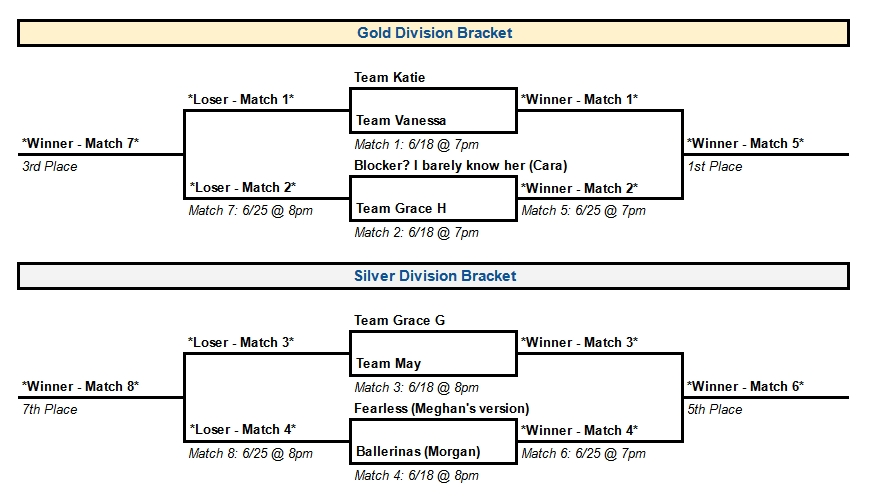
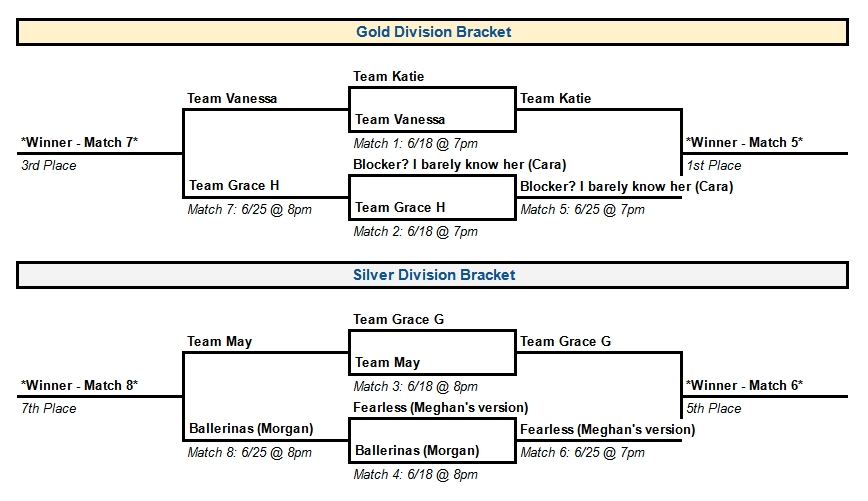
playoff scores

diff --git a/womens/dcwvb_spr24.html b/womens/dcwvb_spr24.html
@@ -900,22 +900,22 @@
         </tr>
         <tr>
           <td style="width:160px;text-align:left;border-top:solid;border-left:solid;border-right:1px solid black;background-color:GhostWhite;padding-left:3px;">Team Katie</td>
-          <td style="width:30px;text-align:center;border-top:solid;border-left:1px solid black;border-right:solid;background-color:GhostWhite;"></td>
+          <td style="width:30px;text-align:center;border-top:solid;border-left:1px solid black;border-right:solid;background-color:GhostWhite;">1</td>
         </tr>
         <tr>
           <td style="width:160px;text-align:left;border-bottom:1px solid black;border-left:solid;border-right:1px solid black;background-color:GhostWhite;padding-left:3px;">Team Vanessa</td>
-          <td style="width:30px;text-align:center;border-bottom:1px solid black;border-left:1px solid black;border-right:solid;background-color:GhostWhite;"></td>
+          <td style="width:30px;text-align:center;border-bottom:1px solid black;border-left:1px solid black;border-right:solid;background-color:GhostWhite;">0</td>
         </tr>
         <tr>
           <th colspan="2" style="text-align:center;border-top:solid;border-bottom:solid;border-left:solid;border-right:solid;background-color:GhostWhite;">Court 2 - Match 2</th>
         </tr>
         <tr>
           <td style="width:160px;text-align:left;border-top:solid;border-left:1px solid black;border-right:1px solid black;border-left:solid;background-color:GhostWhite;padding-left:3px;">Blocker? I barely knew her</td>
-          <td style="width:30px;text-align:center;border-top:solid;border-left:1px solid black;border-right:solid;background-color:GhostWhite;"></td>
+          <td style="width:30px;text-align:center;border-top:solid;border-left:1px solid black;border-right:solid;background-color:GhostWhite;">1</td>
         </tr>
         <tr>
           <td style="width:160px;text-align:left;border-bottom:1px solid black;border-left:1px solid black;border-right:1px solid black;border-left:solid;background-color:GhostWhite;padding-left:3px;">Team Grace H</td>
-          <td style="width:30px;text-align:center;border-bottom:1px solid black;border-left:1px solid black;border-right:solid;background-color:GhostWhite;"></td>
+          <td style="width:30px;text-align:center;border-bottom:1px solid black;border-left:1px solid black;border-right:solid;background-color:GhostWhite;">0</td>
         </tr>
         <tr>
           <th rowspan="6" style="text-align:center;border-top:solid;border-bottom:solid;border-left:solid;border-right:solid;background-color:LightGray;padding-left:5px;padding-right:5px;">8 PM</th>
@@ -923,22 +923,22 @@
         </tr>
         <tr>
           <td style="width:160px;text-align:left;border-top:solid;border-left:solid;border-right:1px solid black;background-color:LightGray;padding-left:3px;">Team Grace G</td>
-          <td style="width:30px;text-align:center;border-top:solid;border-left:1px solid black;border-right:solid;background-color:LightGray;"></td>
+          <td style="width:30px;text-align:center;border-top:solid;border-left:1px solid black;border-right:solid;background-color:LightGray;">1</td>
         </tr>
         <tr>
           <td style="width:160px;text-align:left;border-bottom:1px solid black;border-left:solid;border-right:1px solid black;background-color:LightGray;padding-left:3px;">Team May</td>
-          <td style="width:30px;text-align:center;border-bottom:1px solid black;border-left:1px solid black;border-right:solid;background-color:LightGray;"></td>
+          <td style="width:30px;text-align:center;border-bottom:1px solid black;border-left:1px solid black;border-right:solid;background-color:LightGray;">0</td>
         </tr>
         <tr>
           <th colspan="2" style="text-align:center;border-top:solid;border-bottom:solid;border-left:solid;border-right:solid;background-color:LightGray;">Court 2 - Match 4</th>
         </tr>
         <tr>
           <td style="width:160px;text-align:left;border-top:solid;border-left:1px solid black;border-right:1px solid black;border-left:solid;background-color:LightGray;padding-left:3px;">Fearless (Meghan's version)</td>
-          <td style="width:30px;text-align:center;border-top:solid;border-left:1px solid black;border-right:solid;background-color:LightGray;"></td>
+          <td style="width:30px;text-align:center;border-top:solid;border-left:1px solid black;border-right:solid;background-color:LightGray;">1</td>
         </tr>
         <tr>
           <td style="width:160px;text-align:left;border-bottom:solid;border-left:1px solid black;border-right:1px solid black;border-left:solid;background-color:LightGray;padding-left:3px;">Ballerinas</td>
-          <td style="width:30px;text-align:center;border-bottom:solid;border-left:1px solid black;border-right:solid;background-color:LightGray;"></td>
+          <td style="width:30px;text-align:center;border-bottom:solid;border-left:1px solid black;border-right:solid;background-color:LightGray;">0</td>
         </tr>
       </table>
     </div>
@@ -953,22 +953,22 @@
           <th colspan="2" style="text-align:center;border-top:solid;border-bottom:solid;border-left:solid;border-right:solid;background-color:GhostWhite;">Court 1 - 1st Place</th>
         </tr>
         <tr>
-          <td style="width:160px;text-align:left;border-top:solid;border-left:solid;border-right:1px solid black;background-color:GhostWhite;padding-left:3px;">Winner - Match 1</td>
+          <td style="width:160px;text-align:left;border-top:solid;border-left:solid;border-right:1px solid black;background-color:GhostWhite;padding-left:3px;">Team Katie</td>
           <td style="width:30px;text-align:center;border-top:solid;border-left:1px solid black;border-right:solid;background-color:GhostWhite;"></td>
         </tr>
         <tr>
-          <td style="width:160px;text-align:left;border-bottom:1px solid black;border-left:solid;border-right:1px solid black;background-color:GhostWhite;padding-left:3px;">Winner - Match 2</td>
+          <td style="width:160px;text-align:left;border-bottom:1px solid black;border-left:solid;border-right:1px solid black;background-color:GhostWhite;padding-left:3px;">Blocker? I barely knew her</td>
           <td style="width:30px;text-align:center;border-bottom:1px solid black;border-left:1px solid black;border-right:solid;background-color:GhostWhite;"></td>
         </tr>
         <tr>
           <th colspan="2" style="text-align:center;border-top:solid;border-bottom:solid;border-left:solid;border-right:solid;background-color:GhostWhite;">Court 2 - 5th Place</th>
         </tr>
         <tr>
-          <td style="width:160px;text-align:left;border-top:solid;border-left:1px solid black;border-right:1px solid black;border-left:solid;background-color:GhostWhite;padding-left:3px;">Winner - Match 3</td>
+          <td style="width:160px;text-align:left;border-top:solid;border-left:1px solid black;border-right:1px solid black;border-left:solid;background-color:GhostWhite;padding-left:3px;">Team Grace G</td>
           <td style="width:30px;text-align:center;border-top:solid;border-left:1px solid black;border-right:solid;background-color:GhostWhite;"></td>
         </tr>
         <tr>
-          <td style="width:160px;text-align:left;border-bottom:1px solid black;border-left:1px solid black;border-right:1px solid black;border-left:solid;background-color:GhostWhite;padding-left:3px;">Winner - Match 4</td>
+          <td style="width:160px;text-align:left;border-bottom:1px solid black;border-left:1px solid black;border-right:1px solid black;border-left:solid;background-color:GhostWhite;padding-left:3px;">Fearless (Meghan's version)</td>
           <td style="width:30px;text-align:center;border-bottom:1px solid black;border-left:1px solid black;border-right:solid;background-color:GhostWhite;"></td>
         </tr>
         <tr>
@@ -976,22 +976,22 @@
           <th colspan="2" style="text-align:center;border-top:solid;border-bottom:solid;border-left:solid;border-right:solid;background-color:LightGray;">Court 1 - 3rd Place</th>
         </tr>
         <tr>
-          <td style="width:160px;text-align:left;border-top:solid;border-left:solid;border-right:1px solid black;background-color:LightGray;padding-left:3px;">Loser - Match 1</td>
+          <td style="width:160px;text-align:left;border-top:solid;border-left:solid;border-right:1px solid black;background-color:LightGray;padding-left:3px;">Team Vanessa</td>
           <td style="width:30px;text-align:center;border-top:solid;border-left:1px solid black;border-right:solid;background-color:LightGray;"></td>
         </tr>
         <tr>
-          <td style="width:160px;text-align:left;border-bottom:1px solid black;border-left:solid;border-right:1px solid black;background-color:LightGray;padding-left:3px;">Loser - Match 2</td>
+          <td style="width:160px;text-align:left;border-bottom:1px solid black;border-left:solid;border-right:1px solid black;background-color:LightGray;padding-left:3px;">Team Grace H</td>
           <td style="width:30px;text-align:center;border-bottom:1px solid black;border-left:1px solid black;border-right:solid;background-color:LightGray;"></td>
         </tr>
         <tr>
           <th colspan="2" style="text-align:center;border-top:solid;border-bottom:solid;border-left:solid;border-right:solid;background-color:LightGray;">Court 2 - 7th Place</th>
         </tr>
         <tr>
-          <td style="width:160px;text-align:left;border-top:solid;border-left:1px solid black;border-right:1px solid black;border-left:solid;background-color:LightGray;padding-left:3px;">Loser - Match 3</td>
+          <td style="width:160px;text-align:left;border-top:solid;border-left:1px solid black;border-right:1px solid black;border-left:solid;background-color:LightGray;padding-left:3px;">Team May</td>
           <td style="width:30px;text-align:center;border-top:solid;border-left:1px solid black;border-right:solid;background-color:LightGray;"></td>
         </tr>
         <tr>
-          <td style="width:160px;text-align:left;border-bottom:solid;border-left:1px solid black;border-right:1px solid black;border-left:solid;background-color:LightGray;padding-left:3px;">Loser - Match 4</td>
+          <td style="width:160px;text-align:left;border-bottom:solid;border-left:1px solid black;border-right:1px solid black;border-left:solid;background-color:LightGray;padding-left:3px;">Ballerinas</td>
           <td style="width:30px;text-align:center;border-bottom:solid;border-left:1px solid black;border-right:solid;background-color:LightGray;"></td>
         </tr>
       </table>
@@ -999,7 +999,7 @@
 
     <div id="BR" style="display:none;margin-left:10px;margin-top:10px;margin-right:10px;margin-bottom:10px;">
       <div>
-        <img title="Bracket" style="height:100%;width:min(870px,100%);" src="../images/dcwvb/dcwvb_spr24_bracket.png">
+        <img title="Bracket" style="height:100%;width:min(868px,100%);" src="../images/dcwvb/dcwvb_spr24_bracket.png">
       </div>
     </div>
 

diff --git a/coed/dvb_sum24.html b/coed/dvb_sum24.html
@@ -283,7 +283,7 @@
       </div>
     </div>
 
-    <div id="Rank" style="display:none;width:100%;height:700px;padding-top:20px;z-index:-1;" class="tabcontent">
+    <div id="Rank" style="display:none;width:100%;height:700px;padding-top:10px;z-index:-1;" class="tabcontent">
       <script>
         anychart.onDocumentReady(function () {
           // add rank
@@ -406,16 +406,16 @@
       </script>
     </div>
 
-    <div id="Points" class="tabcontent" style="display:none;width:100%;height:700px;padding-top:20px;z-index:-1;" class="tabcontent">
+    <div id="Points" class="tabcontent" style="display:none;width:100%;height:700px;padding-top:10px;z-index:-1;" class="tabcontent">
       <script>
         anychart.onDocumentReady(function () {
           // add points
           var points = [
-            ["M0",0,0,0,0,0,0,0,0,0,0,0,0],
-            ["M1",1.5,1.5,0,1.5,0,1.5,1,2.5,1,2.5,1,1],
-            ["M2",4,3,1.5,3,0,4,2,3.5,2,4,1,2],
-            ["M3",4.5,5.5,2,4,1.5,6,2,3.5,3,6,2.5,4.5],
-            ["M4",6,6.5,3.5,5,3,7,3.5,4.5,3.5,7.5,3.5,6]
+            ["M0",0,0,0,0,0,0,0,0,0,0,0,0,0,0],
+            ["M1",1.5,1.5,0,1.5,0,1.5,1,2.5,1,2.5,1,1,0.875,1.5],
+            ["M2",4,3,1.5,3,0,4,2,3.5,2,4,1,2,1.75,3],
+            ["M3",4.5,5.5,2,4,1.5,6,2,3.5,3,6,2.5,4.5,2.625,4.5],
+            ["M4",6,6.5,3.5,5,3,7,3.5,4.5,3.5,7.5,3.5,6,3.5,6]
           ];
 
           // create a points set
@@ -434,6 +434,8 @@
           var tenthSeriesData = pointsSet.mapAs({x: 0, value: 10});
           var eleventhSeriesData = pointsSet.mapAs({x: 0, value: 11});
           var twelfthSeriesData = pointsSet.mapAs({x: 0, value: 12});
+          var silverSeriesData = pointsSet.mapAs({x: 0, value: 13});
+          var goldSeriesData = pointsSet.mapAs({x: 0, value: 14});
 
           // create a line chart
           var pointsChart = anychart.line();
@@ -475,6 +477,12 @@
           var twelfthSeries = pointsChart.line(twelfthSeriesData);
           twelfthSeries.name("AS");
           twelfthSeries.stroke({color:"lime",thickness:3});
+          var silverSeries = pointsChart.line(silverSeriesData);
+          silverSeries.name("Silver");
+          silverSeries.stroke({color:"#848482",dash: "8 8",thickness:2});
+          var goldSeries = pointsChart.line(goldSeriesData);
+          goldSeries.name("Gold");
+          goldSeries.stroke({color:"#B8860B",dash: "8 8",thickness:2});
 
           pointsChart.xAxis().orientation("top");
           pointsChart.xAxis().labels().fontColor("black");
@@ -487,8 +495,8 @@
           pointsChart.yAxis().drawFirstLabel(false);
           pointsChart.yAxis().drawLastLabel(false);
           pointsChart.yScale().ticks().interval(0.5);
-          pointsChart.yScale().minimum(-0.25);
-          pointsChart.yScale().maximum(7.9);
+          pointsChart.yScale().minimum(-0.5);
+          pointsChart.yScale().maximum(8);
           pointsChart.yAxis().stroke({color:"black",thickness:2});
           pointsChart.background().fill("gainsboro");
 
